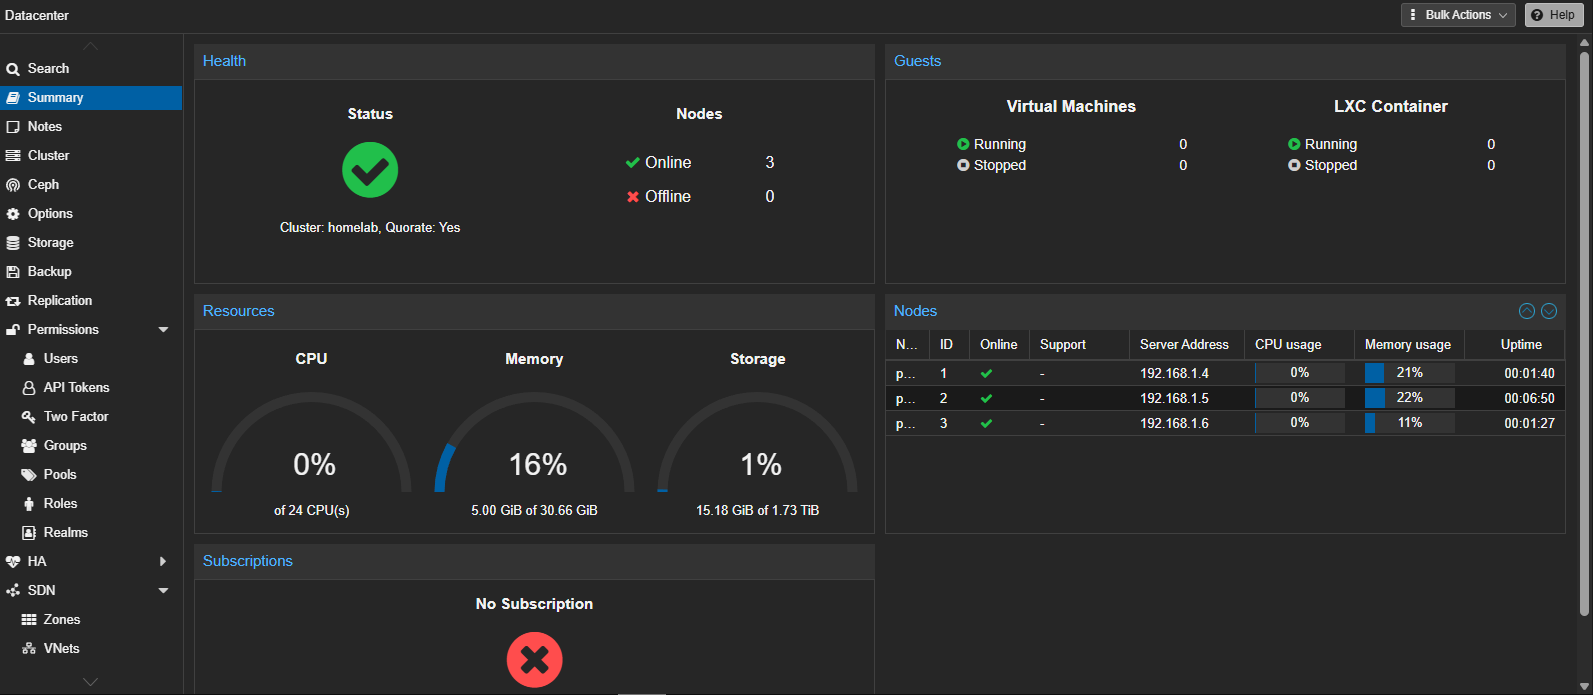
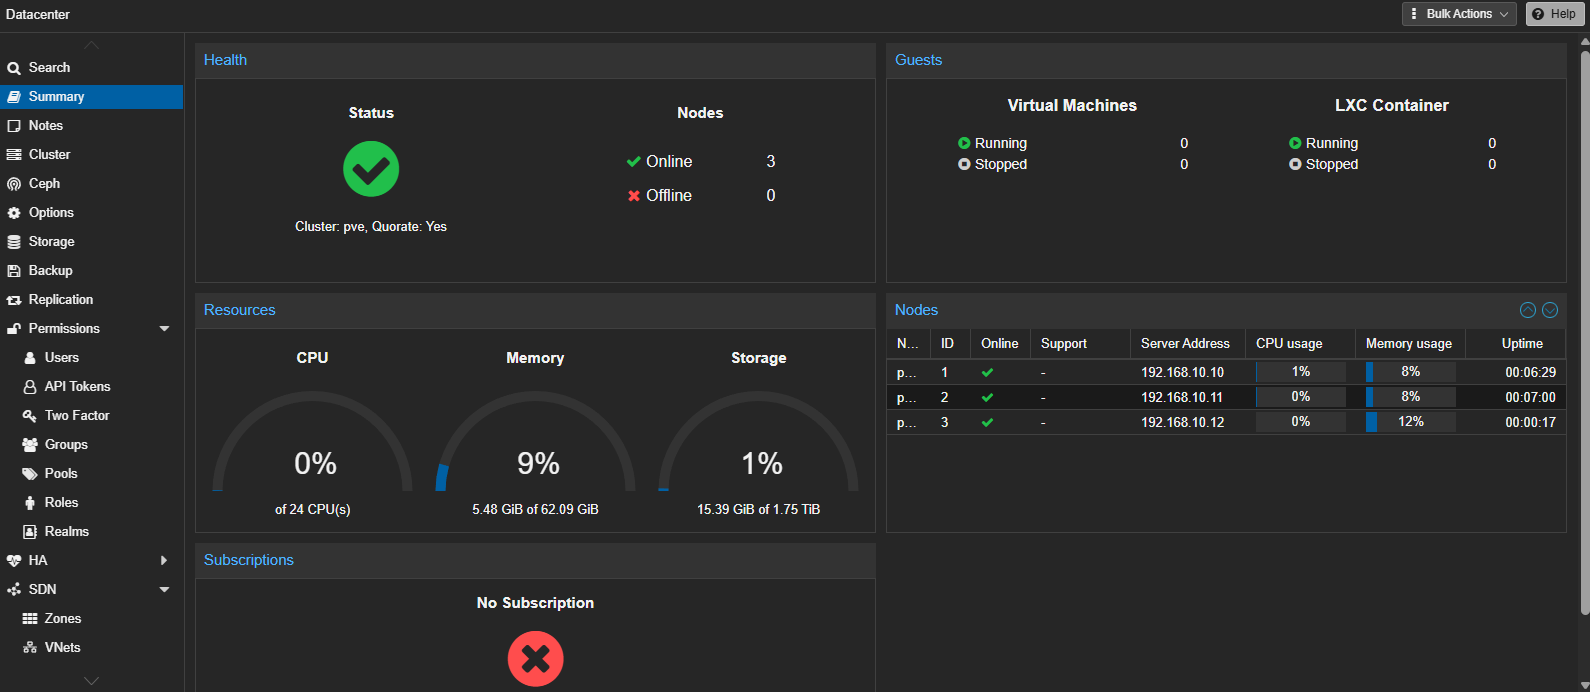
pve-01 & pve-02 RAM upgrade

diff --git a/Hypervisors/Proxmox-Nodes.md b/Hypervisors/Proxmox-Nodes.md
@@ -8,11 +8,11 @@ This document details the configuration, hardware specifications, network bridge
 
 The cluster consists of two compact micro nodes (`PVE 01`, `PVE 02`) housed within the DeskPi 8U rack, paired with a Micro-ATX tower (`PVE 03`) for more resource-intensive workloads.
 
-| Hostname     | Node Role                   | Hardware / Form Factor   | CPU / RAM           | Primary Storage        | Management IP |
-| :----------- | :-------------------------- | :----------------------- | :------------------ | :--------------------- | :------------ |
-| **`pve-01`** | Compute / Cluster Member    | Dell OptiPlex 3060 Micro | i5-8500T / 8GB DDR4 | 256GB NVMe + 500GB SSD | `192.168.1.4` |
-| **`pve-02`** | Compute / Cluster Member    | Dell OptiPlex 3060 Micro | i5-8500T / 8GB DDR4 | 256GB NVMe + 500GB SSD | `192.168.1.5` |
-| **`pve-03`** | High-Compute / Storage Host | Micro-ATX Tower          | i7-8700 / 16GB DDR4 | 256GB NVMe + 1TB HDD   | `192.168.1.6` |
+| Hostname     | Node Role                   | Hardware / Form Factor   | CPU / RAM            | Primary Storage        | Management IP |
+| :----------- | :-------------------------- | :----------------------- | :------------------- | :--------------------- | :------------ |
+| **`pve-01`** | Compute / Cluster Member    | Dell OptiPlex 3060 Micro | i5-8500T / 24GB DDR4 | 256GB NVMe + 500GB SSD | `192.168.1.4` |
+| **`pve-02`** | Compute / Cluster Member    | Dell OptiPlex 3060 Micro | i5-8500T / 24GB DDR4 | 256GB NVMe + 500GB SSD | `192.168.1.5` |
+| **`pve-03`** | High-Compute / Storage Host | Micro-ATX Tower          | i7-8700 / 16GB DDR4  | 256GB NVMe + 1TB HDD   | `192.168.1.6` |
 
 <img src="../Images/Proxmox/Proxmox-Datacenter-Summary.png" width="100%" />
 
